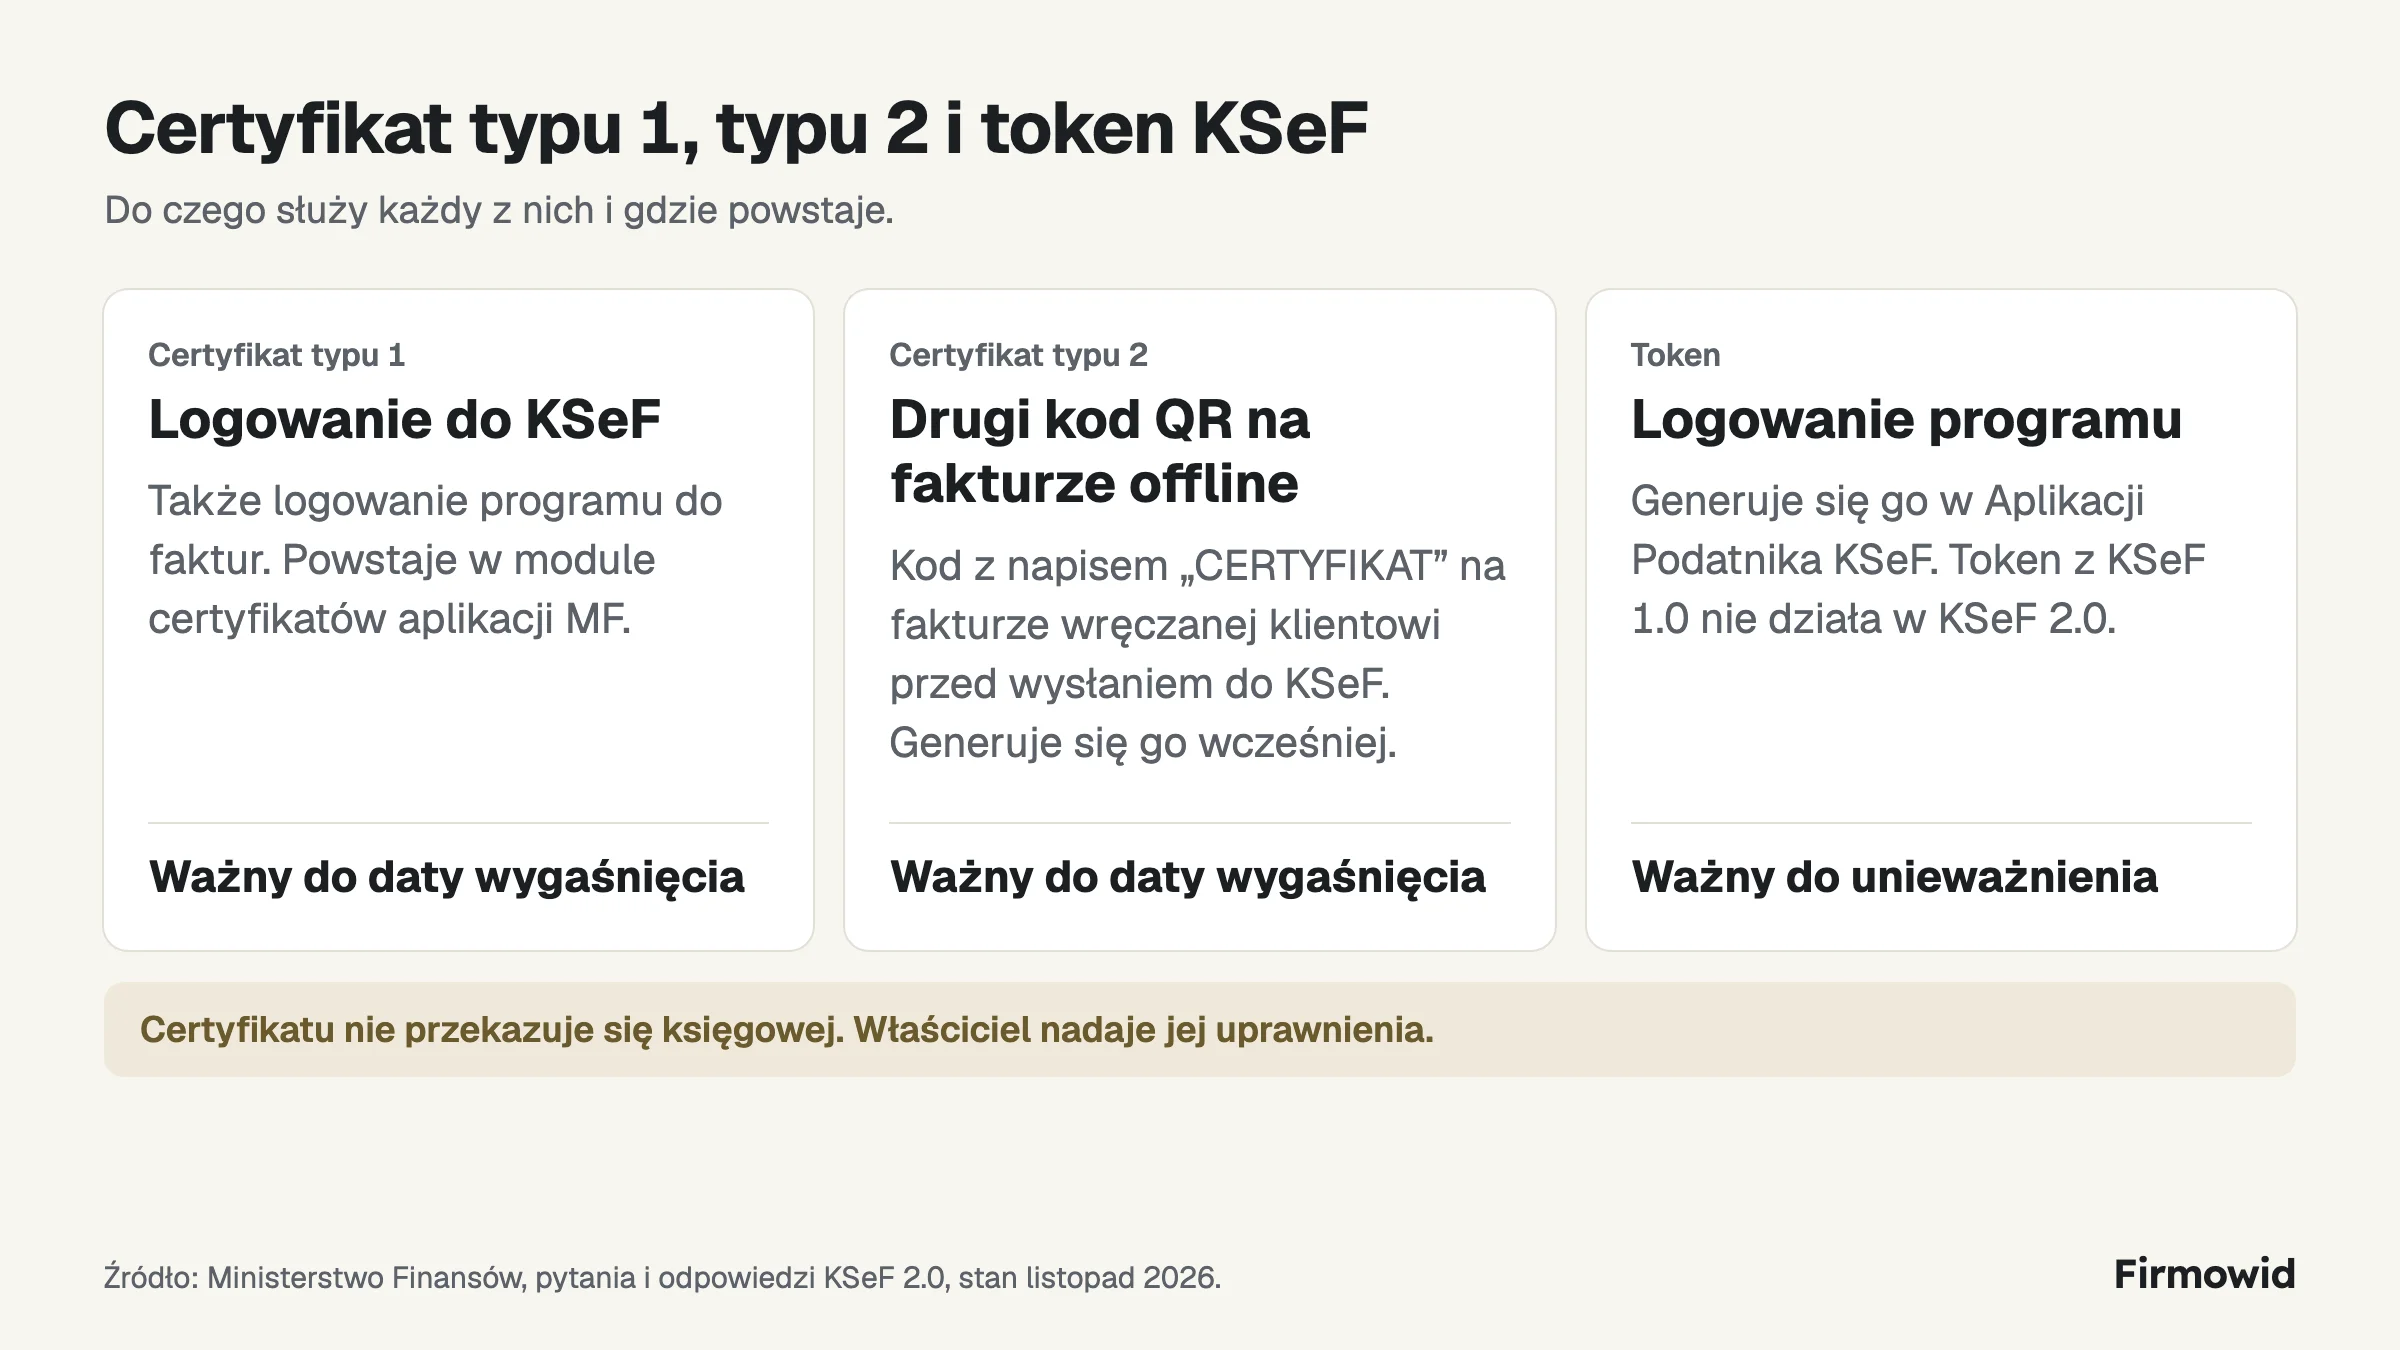
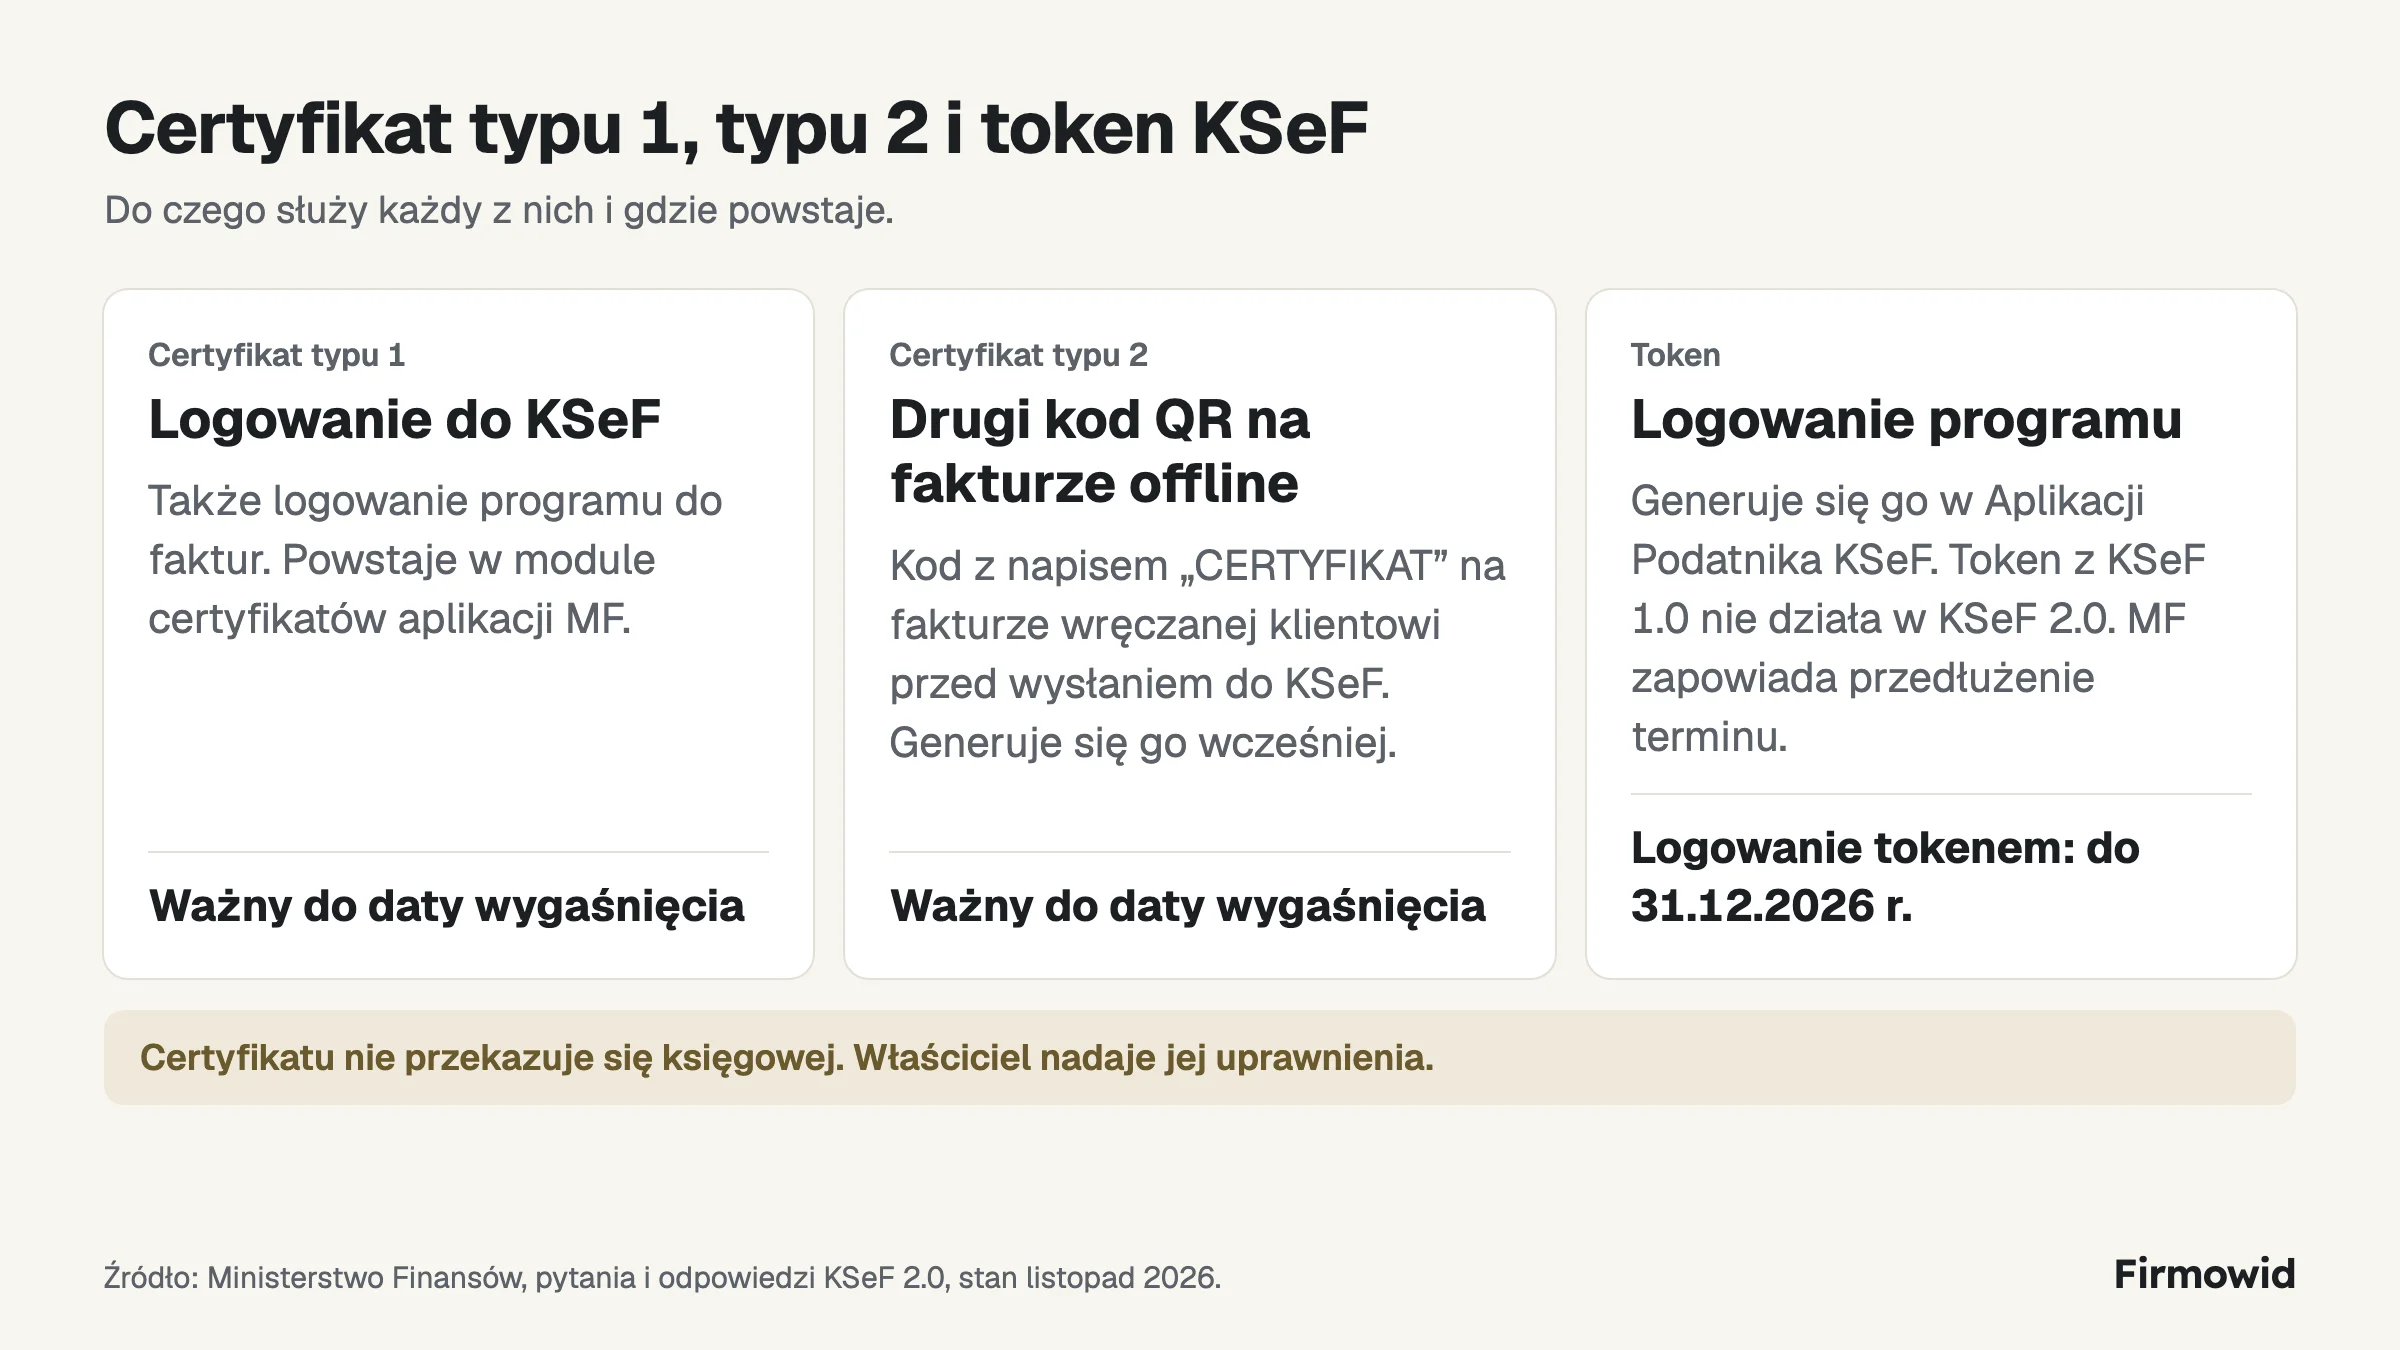
fix(landing): state the current token deadline
Addresses review feedback on PR #415.

diff --git a/priv/guides/certyfikat-ksef-typ-1-i-2.md b/priv/guides/certyfikat-ksef-typ-1-i-2.md
@@ -12,7 +12,7 @@ Certyfikaty KSeF są dwa. Typ 1 służy do logowania, typ 2 do drugiego kodu QR 
 |---|---|---|---|
 | Do czego | logowanie do KSeF, także przez program | drugi kod QR na fakturze offline wręczanej przed wysłaniem do KSeF | logowanie programu do KSeF |
 | Gdzie powstaje | aplikacja MF (moduł certyfikatów) | aplikacja MF (moduł certyfikatów) | Aplikacja Podatnika KSeF |
-| Ważność | do daty wygaśnięcia | do daty wygaśnięcia | do unieważnienia przez użytkownika |
+| Ważność | do daty wygaśnięcia | do daty wygaśnięcia | do unieważnienia, ale rozporządzenie pozwala logować się tokenem do 31.12.2026 r., a MF zapowiada przedłużenie |
 | Można przekazać księgowej | nie, księgowej nadaje się uprawnienia | nie | brak informacji w odpowiedziach MF |
 
 ## Na co uważać
@@ -28,7 +28,7 @@ Według MF certyfikat jest osobistym poświadczeniem tożsamości. Nie pożycza 
 
 [Firmowid](/cennik), nasz program, przyjmuje token albo certyfikat. Przy certyfikacie zapisuje datę wygaśnięcia.
 
-![Certyfikat typu 1 służy do logowania do KSeF, certyfikat typu 2 do drugiego kodu QR z napisem CERTYFIKAT na fakturze offline, a token do logowania programu i jest ważny do unieważnienia. Certyfikatu nie przekazuje się księgowej, tylko nadaje jej uprawnienia.](/images/guides/certyfikat-ksef-typ-1-typ-2-token.webp)
+![Certyfikat typu 1 służy do logowania do KSeF, certyfikat typu 2 do drugiego kodu QR z napisem CERTYFIKAT na fakturze offline, a token do logowania programu; rozporządzenie pozwala logować się nim do 31 grudnia 2026 r. Certyfikatu nie przekazuje się księgowej, tylko nadaje jej uprawnienia.](/images/guides/certyfikat-ksef-typ-1-typ-2-token.webp)
 
 ## Źródła
 
